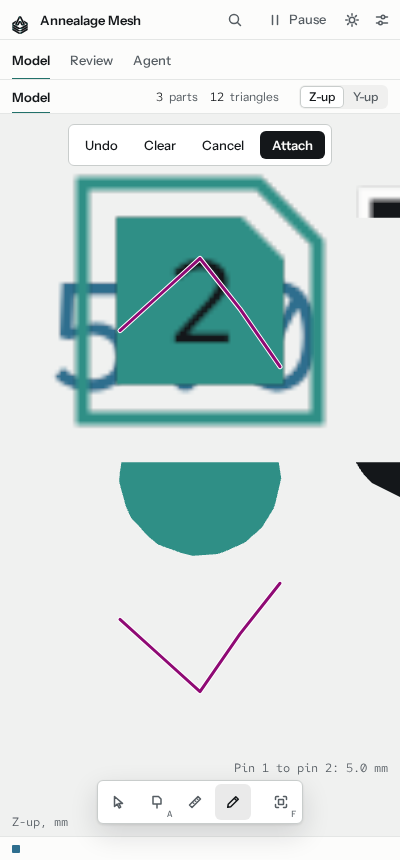
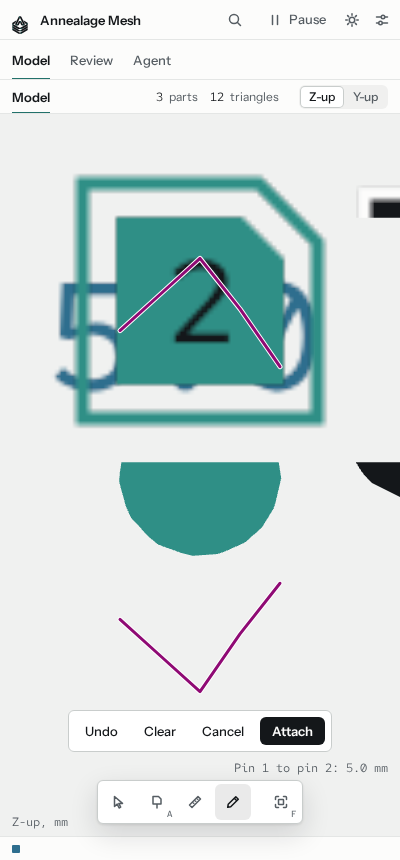
Sketch toolbar sits at the bottom of the view, clear of the toast.
The toast and error line hang at the top of the view now, where the toolbar was, and hid Undo, Clear, Cancel and Attach. The toolbar goes above the HUD row (above the measure readout on a phone). toastClear also fails a shot where the toast overlaps it; m5-sketch-moved checks the toolbar is showing and gains a phone twin. Retaken, viewed: mesh-sketch, m2-sketch, m5-sketch-moved.

diff --git a/src/annealage_mesh/static/css/app.css b/src/annealage_mesh/static/css/app.css
@@ -24,8 +24,10 @@
    theme's .canvas, which is already the positioning context, and the overlay
    with inset: 0 fills the same box three-scene.js sizes the renderer from. */
 #app canvas.sketch-overlay { position: absolute; inset: 0; cursor: crosshair; }
+/* The toolbar sits at the bottom of the view, above the HUD row (the units, the measured
+   distance): a toast or the error line hangs at the top. */
 .sketchbar {
-  position: absolute; top: 10px; left: 50%; transform: translateX(-50%); z-index: 1;
+  position: absolute; bottom: 30px; left: 50%; transform: translateX(-50%); z-index: 1;
   display: flex; gap: 6px; padding: 6px;
   background: var(--field); border: 1px solid var(--rule-strong); border-radius: var(--r);
 }
@@ -55,9 +57,10 @@
 #measureSec .fields[hidden], #measureSec .empty[hidden] { display: none; }
 #measureSec .empty { padding: 6px 12px 0; font-size: 12px; color: var(--ink-2); }
 
-/* ---------- measure readout on a phone ----------
+/* ---------- measure readout and sketch toolbar on a phone ----------
    The phone's tool pill sits on the bottom edge of the view; the measured
-   distance sits above it. */
+   distance sits above it and the sketch toolbar above that. */
 @media (max-width: 900px) {
   #measureHud { bottom: 60px; }
+  .sketchbar { bottom: 84px; }
 }
